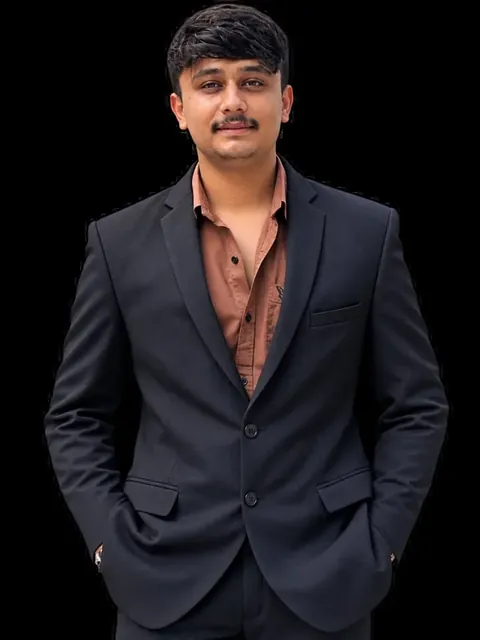
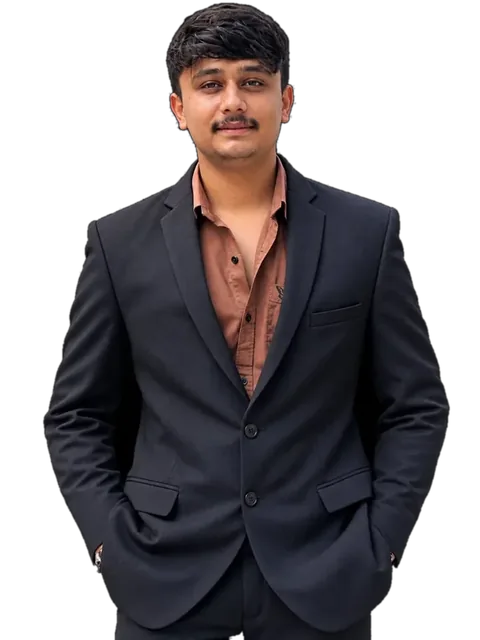
Reduce profile photo size

diff --git a/frontend/index.html b/frontend/index.html
@@ -25,7 +25,7 @@
       href="assets/img/portrait.webp"
       as="image"
       imagesrcset="assets/img/portrait-480.webp 480w, assets/img/portrait.webp 720w"
-      imagesizes="(max-width: 760px) 70vw, 440px"
+      imagesizes="(max-width: 960px) 148px, 280px"
     />
     <link rel="stylesheet" href="css/style.css" />
     <script type="application/ld+json">
@@ -165,7 +165,7 @@
               id="portrait"
               src="assets/img/portrait.webp"
               srcset="assets/img/portrait-480.webp 480w, assets/img/portrait.webp 720w"
-              sizes="(max-width: 760px) 70vw, 440px"
+              sizes="(max-width: 960px) 148px, 280px"
               width="720"
               height="960"
               alt="Portrait of Vedant J. Sharma"

diff --git a/frontend/css/style.css b/frontend/css/style.css
@@ -539,7 +539,7 @@ svg circle {
 .hero-art {
   position: relative;
   justify-self: center;
-  width: min(440px, 100%);
+  width: min(280px, 100%);
   aspect-ratio: 3/4;
 }
 .art-disc {
@@ -2325,8 +2325,22 @@ svg circle {
   }
   .hero-art {
     order: -1;
-    width: min(250px, 64%);
+    width: min(148px, 42%);
     margin-bottom: 4px;
+  }
+  .hero-art .chip {
+    padding: 7px 11px;
+    font-size: 12px;
+  }
+  .hero-art .chip-a {
+    left: auto;
+    right: 80%;
+    top: 24%;
+  }
+  .hero-art .chip-b {
+    right: auto;
+    left: 80%;
+    bottom: 20%;
   }
   .scroll-cue {
     display: none;
